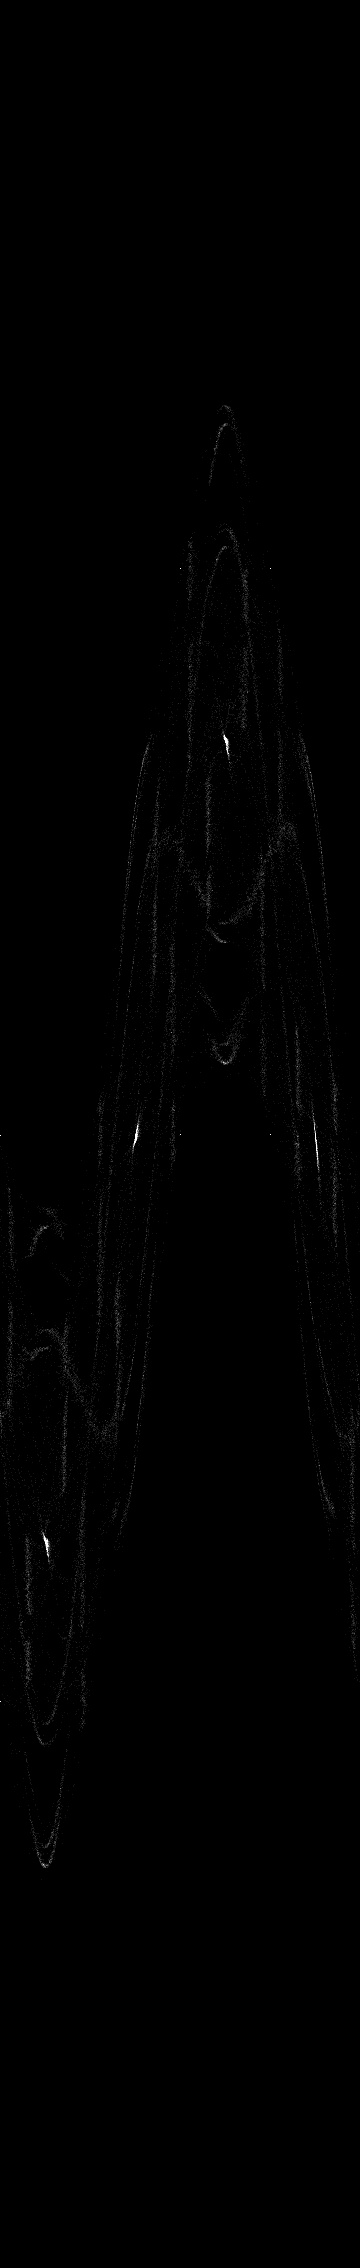
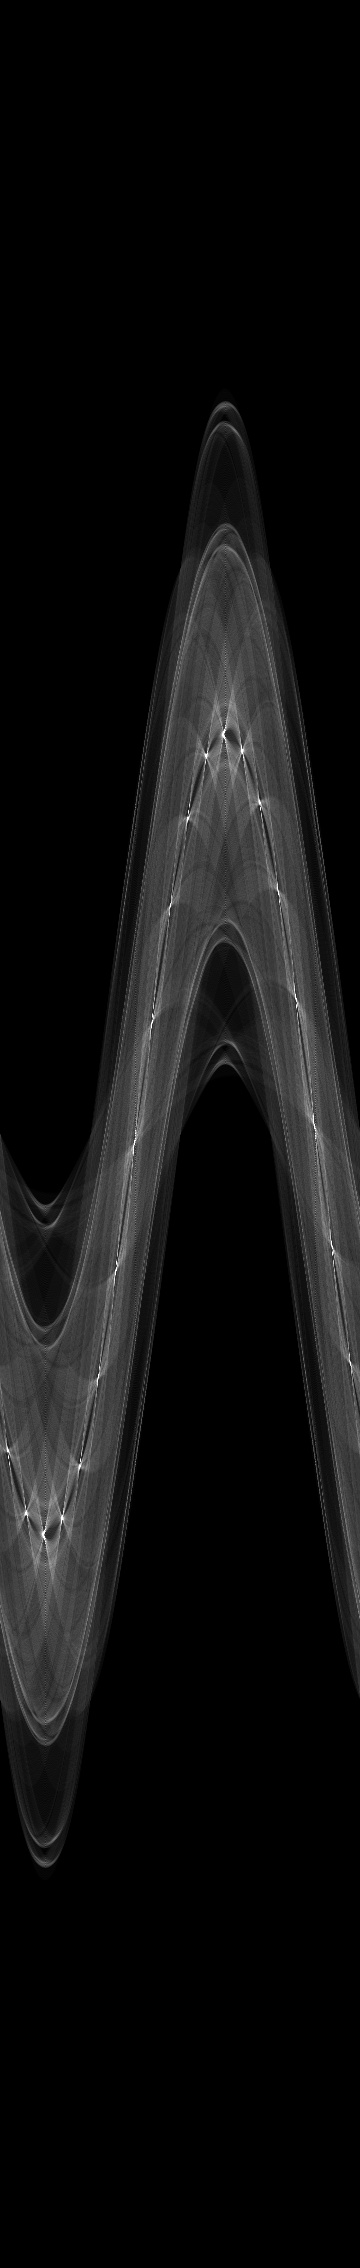
Hough line space working

Changed region(s): [[0.0, 0.1543, 1.0, 0.8333]]

diff --git a/Subtask3/dart.cpp b/Subtask3/dart.cpp
@@ -26,7 +26,7 @@ void calcF1(std::vector<Rect> faces, string csv);
 Mat getGradMag(Mat frame_gray);
 Mat getGradDir(Mat frame_gray);
 Mat prepImage(Mat frame);
-Mat generateHoughSpace(Mat gradMag, Mat gradDir);
+Mat generateLineHoughSpace(Mat gradMag, Mat gradDir);
 /** Global variables */
 String cascade_name = "cascade.xml";
 CascadeClassifier cascade;
@@ -47,7 +47,7 @@ int main( int argc, const char** argv ) {
 	Mat gradMag = getGradMag(prepedImage);
 	Mat gradDir = getGradDir(prepedImage);
 
-  Mat houghSpace = generateHoughSpace(gradMag, gradDir);
+  Mat houghSpace = generateLineHoughSpace(gradMag, gradDir);
 
 	// 4. Save Result Image
 	imwrite( "outputMag.jpg", gradMag );
@@ -56,7 +56,7 @@ int main( int argc, const char** argv ) {
 	return 0;
 }
 
-Mat generateHoughSpace(Mat gradMag, Mat gradDir) {
+Mat generateLineHoughSpace(Mat gradMag, Mat gradDir) {
 
 
 	int width = gradMag.size().width;
@@ -69,17 +69,22 @@ Mat generateHoughSpace(Mat gradMag, Mat gradDir) {
 
 			if (gradMag.at<uchar>(y, x) != 0) {
 
-				float theta = gradDir.at<float>(y, x) + pi;
-				int rho = round((x*cos(theta) + y*sin(theta)) + width + height);
-
-
-        int degrees = round(theta * (180/pi));
-
-				cout << rho << endl;
-			  houghSpace.at<int>(rho, degrees) += 20;
+				for (int deg = 0; deg < 360; deg ++) {
+					int rho = round(x*cos(deg*pi/180) + y*sin(deg*pi/180) + width + height);
+					houghSpace.at<int>(rho, deg)++;
+				}
 
 			}
 
+		}
+	}
+
+	for (int x = 0; x < 2*(width + height); x++) {
+		for (int y = 0; y < 360; y++ ) {
+			if (houghSpace.at<int>(x, y) != 0){
+				cout << houghSpace.at<int>(x, y) << endl;
+
+			}
 		}
 	}
 
